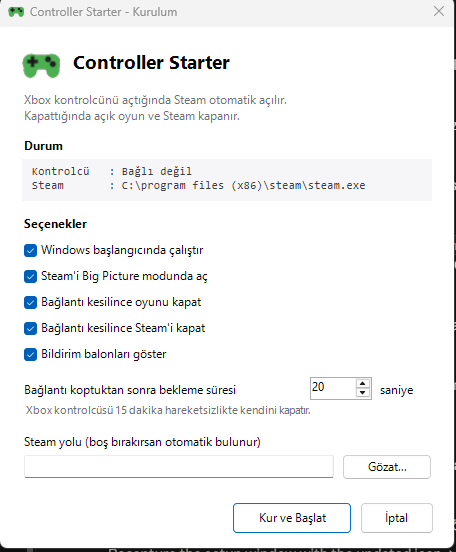
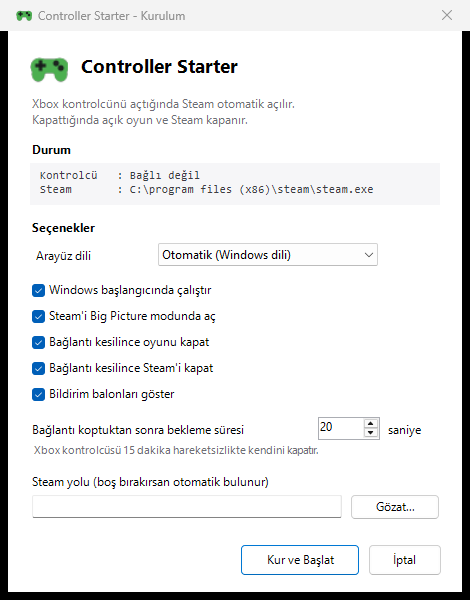
Reorganise the repository and add a language selector
The root had grown to a dozen loose scripts and four batch files. Files
now sit in app/ (what gets installed), src/ (C# sources), build/ (build
scripts) and docs/, leaving four files at the top level.

- One batch launcher remains, app/Setup.bat, as the path that Smart App
  Control does not block; ControllerStarter.bat, Status.bat and
  Uninstall.bat are gone, their jobs covered by the installer, the tray
  menu and ControllerStarter.ps1 -Once
- The compiled launcher is no longer committed; build/Build-Setup.ps1
  produces it and embeds it in the installer, which also now carries
  LICENSE into an install
- Settings gain an interface-language dropdown (automatic, Turkce,
  English). Changing it re-resolves the string table and relabels the
  tray menu straight away, without a restart
- Fixes an invisible settings window: a process started with a hidden
  window style passes that show command to its first top-level window,
  so the dialog existed but never appeared. It is now forced visible and
  activated once shown

diff --git a/README.md b/README.md
@@ -51,7 +51,7 @@ A console-like experience on Windows: pick up the controller, play, put it down.
 
 The installer is a single self-contained file — the application is embedded inside it. It installs per-user (no administrator rights), adds a Start Menu shortcut and registers an entry under *Apps & features* so it uninstalls like any other program.
 
-> **Windows 11 with Smart App Control:** the installer is unsigned and Windows will refuse to run it. There is no way around that short of turning the feature off — see [About the .exe](#about-the-exe). If you would rather not, clone the repository and double-click `Setup.bat` instead; it gives you exactly the same application.
+> **Windows 11 with Smart App Control:** the installer is unsigned and Windows will refuse to run it. There is no way around that short of turning the feature off — see [About the .exe](#about-the-exe). If you would rather not, clone the repository and double-click `app\Setup.bat` instead; it gives you exactly the same application.
 
 ### Running from source instead
 
@@ -59,21 +59,13 @@ The installer is a single self-contained file — the application is embedded in
 git clone https://github.com/SametEge/ControllerStarter.git
 ```
 
-Then double-click `Setup.bat`. Nothing to build, nothing to install.
+Then double-click **`app\Setup.bat`**. It opens the same setup window the installer shows. Nothing to build, nothing to install, and Smart App Control does not block it.
 
+For a text-only diagnostic report:
 
-
-### Launchers
-
-| File | What it does |
-|---|---|
-| **`Setup.bat`** | Opens the setup window: options, autostart choice, install and start. **Start here.** |
-| **`ControllerStarter.exe`** | Same thing as a real executable — starts the tray app with no console flash. See [About the .exe](#about-the-exe). |
-| **`ControllerStarter.bat`** | Starts the tray app without touching your settings. |
-| **`Status.bat`** | Text diagnostics in a console window. |
-| **`Uninstall.bat`** | Removes autostart and stops the app. |
-
-> If `ControllerStarter.exe` does nothing when you double-click it, Smart App Control is blocking it — use `Setup.bat` instead, or read [About the .exe](#about-the-exe).
+```powershell
+powershell -ExecutionPolicy Bypass -File .\app\ControllerStarter.ps1 -Once
+```
 
 ## The tray icon
 
@@ -120,23 +112,22 @@ The `Suspended` state exists so that quitting Steam by hand — while the contro
 ## Files
 
 ```
-Controller Starter/
-├── Setup.bat                  # double-click: setup window
-├── ControllerStarter.bat      # double-click: start the tray app
-├── Status.bat                 # double-click: text diagnostics
-├── Uninstall.bat              # double-click: remove
-├── ControllerStarterApp.ps1   # tray app, setup and settings UI
-├── ControllerStarter.ps1      # headless watcher (no UI)
-├── src/Core.ps1               # shared engine: XInput, Steam, state machine
-├── Install.ps1                # command-line install
-├── Uninstall.ps1              # command-line uninstall
-├── ControllerStarter.exe      # compiled launcher (unsigned)
-├── Build-Exe.ps1              # rebuilds that launcher
-├── Build-Setup.ps1            # builds the single-file installer
-├── installer/Setup.cs         # installer source
-├── build/Launcher.cs          # its C# source
-├── config.json                # all settings
-├── docs/setup.png             # screenshot used in this README
+ControllerStarter/
+├── app/                       # the application — this is what gets installed
+│   ├── ControllerStarterApp.ps1   # tray app, setup and settings window
+│   ├── ControllerStarter.ps1      # headless watcher, and -Once diagnostics
+│   ├── Core.ps1                   # engine: XInput, Steam, state machine
+│   ├── Install.ps1                # autostart on
+│   ├── Uninstall.ps1              # autostart off
+│   ├── Setup.bat                  # run it without the installer
+│   └── config.json                # all settings
+├── src/                       # C# sources
+│   ├── Launcher.cs                # the small launcher executable
+│   └── Setup.cs                   # the installer
+├── build/                     # build scripts
+│   ├── Build-Exe.ps1
+│   └── Build-Setup.ps1
+├── docs/setup.png
 ├── README.md                  # this file
 ├── README.tr.md               # Turkish version
 └── LICENSE
@@ -216,21 +207,23 @@ The executable is **unsigned**. Windows 11 with **Smart App Control** enabled re
 Check your machine:
 
 ```powershell
-powershell -ExecutionPolicy Bypass -File .\Build-Exe.ps1 -CheckPolicy
+powershell -ExecutionPolicy Bypass -File .\build\Build-Exe.ps1 -CheckPolicy
 ```
 
 If it reports **On (enforcing)**, you have two options:
 
-- **Use `Setup.bat`.** Batch launchers are not affected and give you the same tray app. Nothing to disable.
+- **Use `app\Setup.bat`.** Batch launchers are not affected and give you the same tray app. Nothing to disable.
 - **Turn Smart App Control off** under Windows Security → App & browser control → Smart App Control. ⚠ **This cannot be undone without reinstalling Windows**, and it removes the protection for every application, not just this one. Weigh that against the convenience of one icon.
 
 ### Building it yourself
 
 ```powershell
-powershell -ExecutionPolicy Bypass -File .\Build-Exe.ps1
+powershell -ExecutionPolicy Bypass -File .\build\Build-Setup.ps1
 ```
 
-This generates the multi-resolution icon from the same drawing code the tray icon uses, then compiles `build/Launcher.cs` with the C# compiler bundled in the .NET Framework. Nothing to install, and you never have to trust a binary you did not build.
+This generates the multi-resolution icon from the same drawing code the tray icon uses, compiles `src/Launcher.cs` into `app/ControllerStarter.exe`, packs everything in `app/` into a ZIP and embeds it inside `ControllerStarterSetup.exe`. It uses the C# compiler bundled in the .NET Framework, so nothing has to be installed — and you never have to trust a binary you did not build.
+
+`build\Build-Exe.ps1` builds just the launcher, without the installer around it.
 
 ## Uninstalling
 
